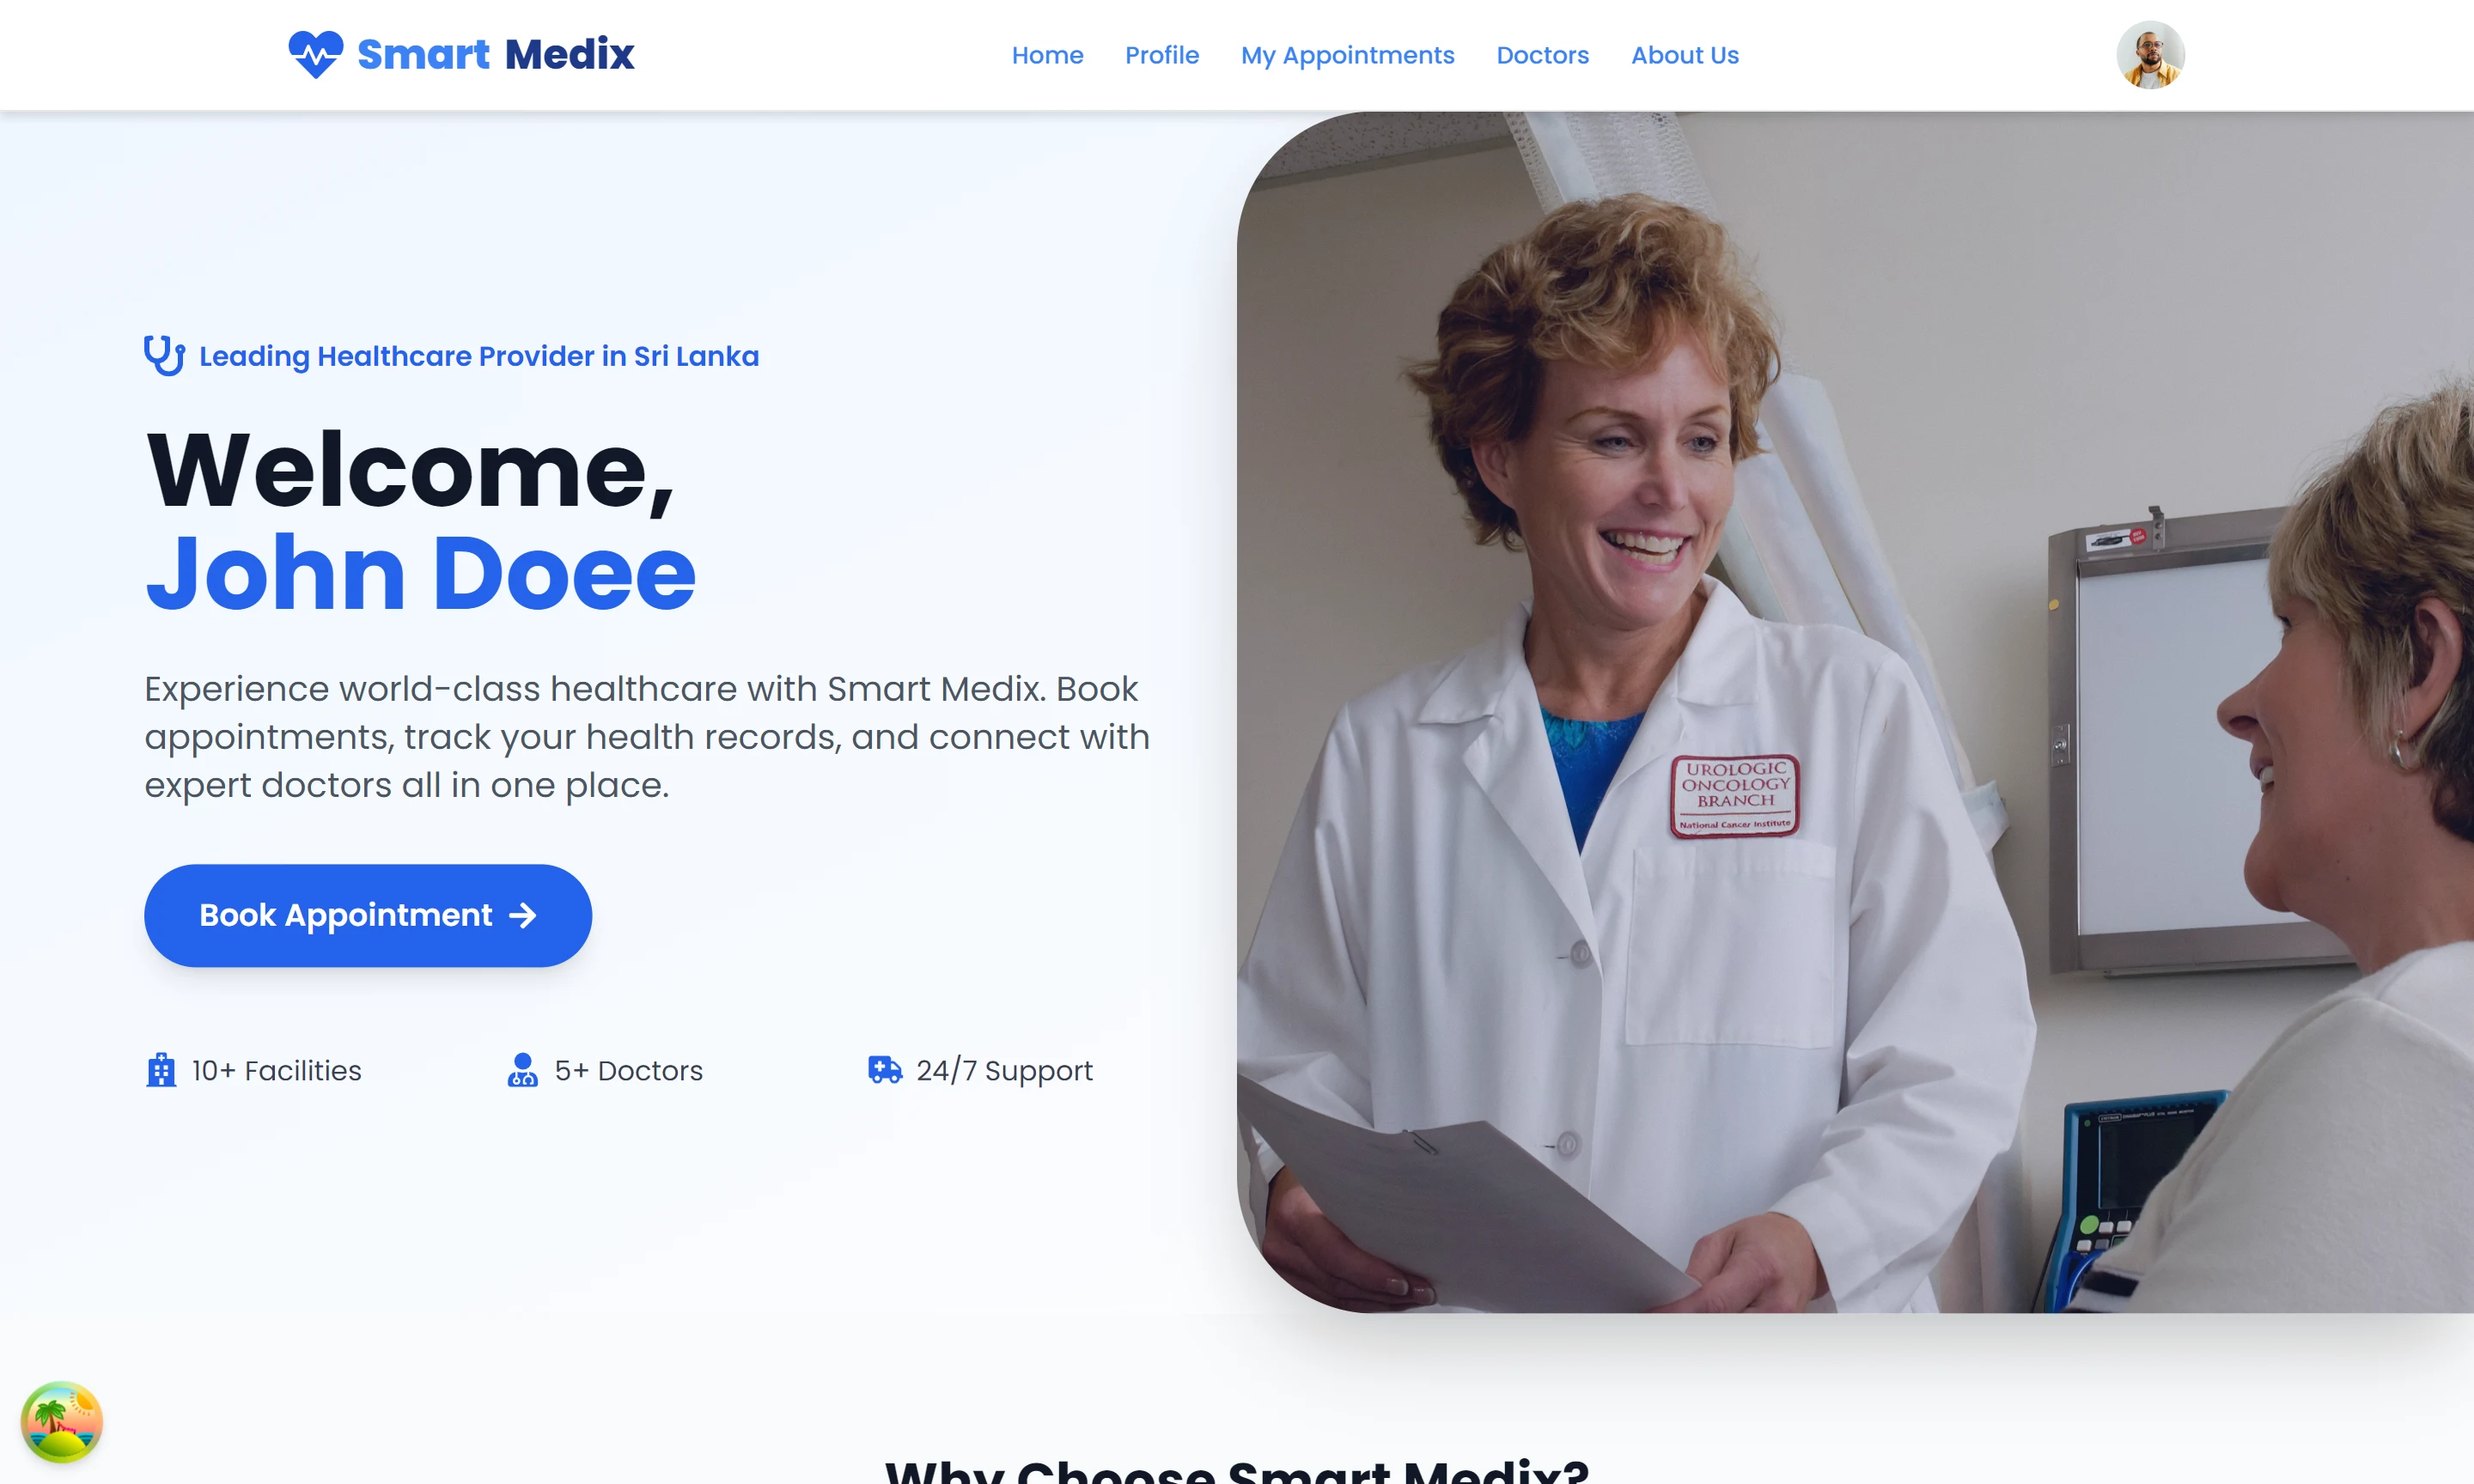
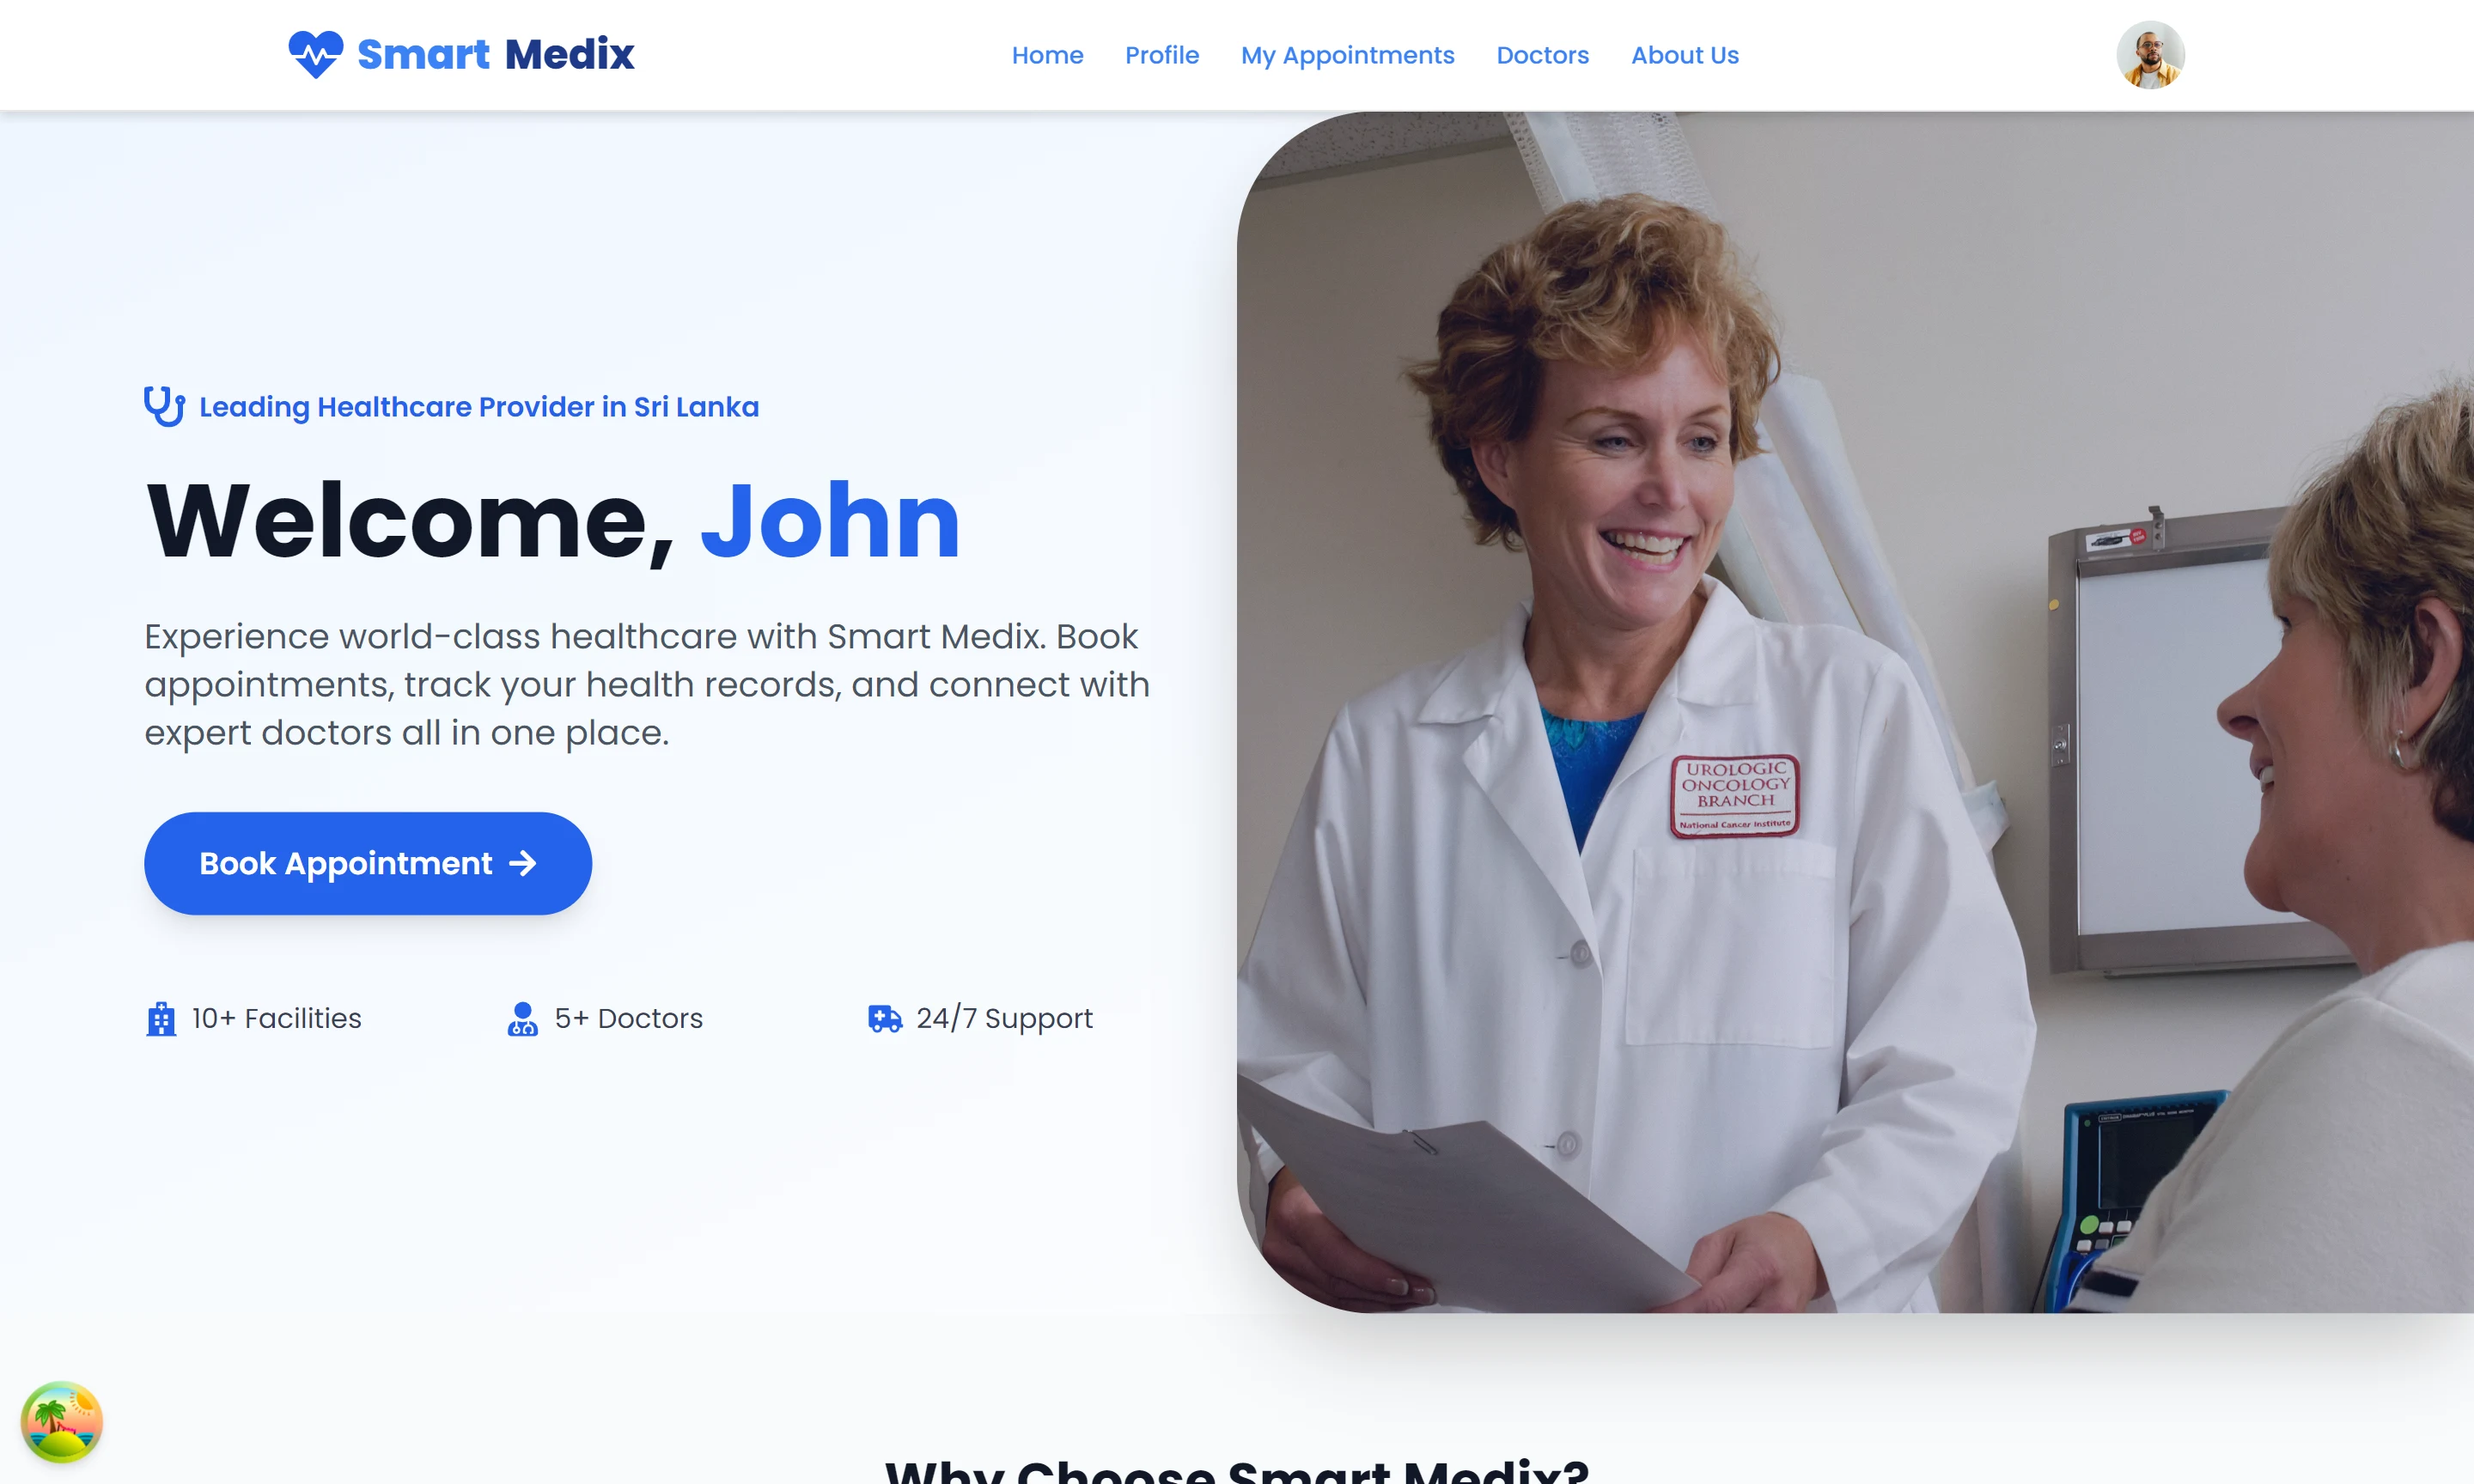
update HeroSection to display only the first name for improved personalization

diff --git a/client/src/components/hero-section/hero-section.jsx b/client/src/components/hero-section/hero-section.jsx
@@ -9,6 +9,10 @@ import {
 import { Link } from 'react-router-dom';
 
 export default function HeroSection({ fullName }) {
+    const firstName = fullName
+      ? fullName.split(' ')[0]
+      : '';
+
   return (
     <section className="relative min-h-[600px] md:min-h-[700px] flex items-center bg-gradient-to-br from-blue-50 to-white">
       <div className="absolute right-0 top-0 w-full md:w-1/2 h-full z-0">
@@ -31,9 +35,9 @@ export default function HeroSection({ fullName }) {
             {fullName ? (
               <h1 className="text-4xl md:text-5xl lg:text-6xl font-bold text-gray-900 mb-6 leading-tight">
                 Welcome,{' '}
-                <div className="text-blue-600">
-                  {fullName}
-                </div>
+                <span className="text-blue-600">
+                  {firstName}
+                </span>
               </h1>
             ) : (
               <h1 className="text-4xl md:text-5xl lg:text-6xl font-bold text-gray-900 mb-6 leading-tight">
